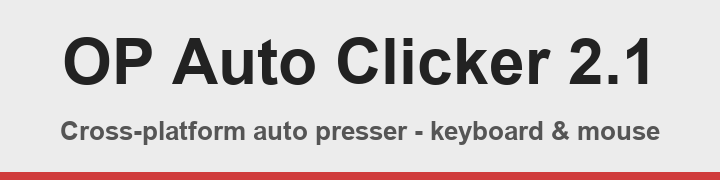
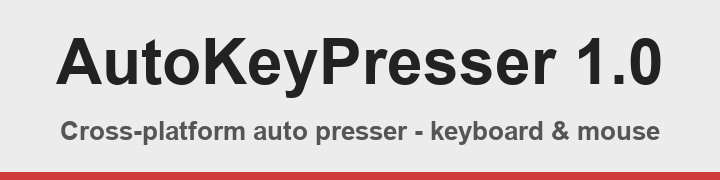
Rename product to AutoKeyPresser 1.0

Changed region(s): [[0.0611, 0.1944, 0.9167, 0.5556]]

diff --git a/autoclicker/app.py b/autoclicker/app.py
@@ -6,7 +6,7 @@ from . import keys as keymod
 from .config import load_config, save_config
 from .engine import PressEngine, PressSettings
 
-APP_NAME = "OP Auto Clicker 2.1"
+APP_NAME = "AutoKeyPresser 1.0"
 
 HOTKEY_MODS = [
     "None",
@@ -47,7 +47,7 @@ def build_hotkey(mod, key):
         parts.extend("<%s>" % m.strip().lower() for m in mod.split("+"))
     if key in _PYNPUT_SPECIAL:
         parts.append(_PYNPUT_SPECIAL[key])
-    elif len(key) == 2 and key[0] == "F" and key[1].isdigit():
+    elif key.startswith("F") and key[1:].isdigit():
         parts.append("<%s>" % key.lower())
     else:
         parts.append(key.lower())
@@ -312,7 +312,10 @@ class AutoClickerApp:
             self.engine.stop()
 
     def _update_running_ui(self, running):
-        self.start_button.config(text="Stop" if running else "Start")
+        if running:
+            self.start_button.config(text="Stop")
+        else:
+            self._update_hotkey_label()
 
     def _poll_queue(self):
         try:
@@ -322,17 +325,17 @@ class AutoClickerApp:
                     self.status_var.set("Running - clicks: %d" % value)
                 elif msg == "done":
                     self.status_var.set("Stopped - clicks: %d" % value)
-                    self.start_button.config(text="Start")
+                    self._update_running_ui(False)
         except queue.Empty:
             pass
         self.root.after(80, self._poll_queue)
 
     # ----------------------------------------------------------------- hotkey
     def _start_hotkey_listener(self):
-        from pynput import keyboard
-
-        combo = build_hotkey(self.config["hotkey_mod"], self.config["hotkey_key"])
         try:
+            from pynput import keyboard
+
+            combo = build_hotkey(self.config["hotkey_mod"], self.config["hotkey_key"])
             self.hotkey_listener = keyboard.GlobalHotKeys({combo: self._toggle})
             self.hotkey_listener.start()
         except Exception as exc:
@@ -453,7 +456,11 @@ content you own or are authorized to automate.
     def _on_close(self):
         try:
             self._stop()
-            save_config(self._collect_config())
+            try:
+                save_config(self._collect_config())
+            except ValueError:
+                # Do not block shutdown because a field contains invalid text.
+                pass
         finally:
             self._stop_hotkey_listener()
             self.root.destroy()

diff --git a/scripts/generate_banner.py b/scripts/generate_banner.py
@@ -22,7 +22,7 @@ bold = next((f for f in fonts if f.exists()), None)
 title_font = ImageFont.truetype(str(bold), 64) if bold else ImageFont.load_default()
 sub_font = ImageFont.truetype(str(bold), 26) if bold else ImageFont.load_default()
 
-title = "OP Auto Clicker 2.1"
+title = "AutoKeyPresser 1.0"
 sub = "Cross-platform auto presser - keyboard & mouse"
 
 tw = draw.textlength(title, font=title_font)

diff --git a/tests/test_app.py b/tests/test_app.py
@@ -30,6 +30,9 @@ class HotkeyBuilderTests(unittest.TestCase):
     def test_plain_f_key(self):
         self.assertEqual(build_hotkey("None", "F6"), "<f6>")
 
+    def test_two_digit_f_key(self):
+        self.assertEqual(build_hotkey("None", "F12"), "<f12>")
+
     def test_special_key(self):
         self.assertEqual(build_hotkey("None", "Page Up"), "<page_up>")
 

diff --git a/README.md b/README.md
@@ -1,5 +1,5 @@
 <p align="center">
-	<img src="img/banner.png" alt="OP Auto Clicker 2.1" />
+	<img src="img/banner.png" alt="AutoKeyPresser 1.0" />
 </p>
 
 <p align="center">
@@ -9,15 +9,15 @@
 	<img alt="Dependencies" src="https://img.shields.io/badge/dependencies-2-brightgreen" />
 </p>
 
-## What is OPAutoClicker?
-OP Auto Clicker is an open-source, easy to use, cross-platform auto presser for
+## What is AutoKeyPresser?
+AutoKeyPresser is an open-source, easy to use, cross-platform auto presser for
 **Windows, Linux and macOS**. It can automatically press any keyboard key and
 any mouse button, on a classic Windows-style utility interface.
 
 ![Example image](img/example.png)
-*v2.1*
+*v1.0*
 
-[![forthebadge](https://forthebadge.com/images/badges/made-with-python.svg)](https://www.python.org/) [![forthebadge](https://forthebadge.com/images/badges/60-percent-of-the-time-works-every-time.svg)]()
+[![forthebadge](https://forthebadge.com/images/badges/made-with-python.svg)](https://www.python.org/)
 
 ## Main features
  * Fairly simple, compact layout;
@@ -67,9 +67,9 @@ platform:
 
 | Platform | Portable | Installer |
 | --- | --- | --- |
-| Windows | `OPAutoClicker-Portable.zip` (extract & run) | `OPAutoClicker-Setup.exe` (Inno Setup) |
-| Linux | `OPAutoClicker-Portable-linux.tar.gz` | `OPAutoClicker-Linux.deb` / `OPAutoClicker-Linux.AppImage` |
-| macOS | `OPAutoClicker-Portable-macos.zip` (.app) | `OPAutoClicker-macOS.dmg` |
+| Windows | `AutoKeyPresser-Portable.zip` (extract & run) | `AutoKeyPresser-Setup.exe` (Inno Setup) |
+| Linux | `AutoKeyPresser-Portable-linux.tar.gz` | `AutoKeyPresser-Linux.deb` / `AutoKeyPresser-Linux.AppImage` |
+| macOS | `AutoKeyPresser-Portable-macos.zip` (.app) | `AutoKeyPresser-macOS.dmg` |
 
 ## Building
 
